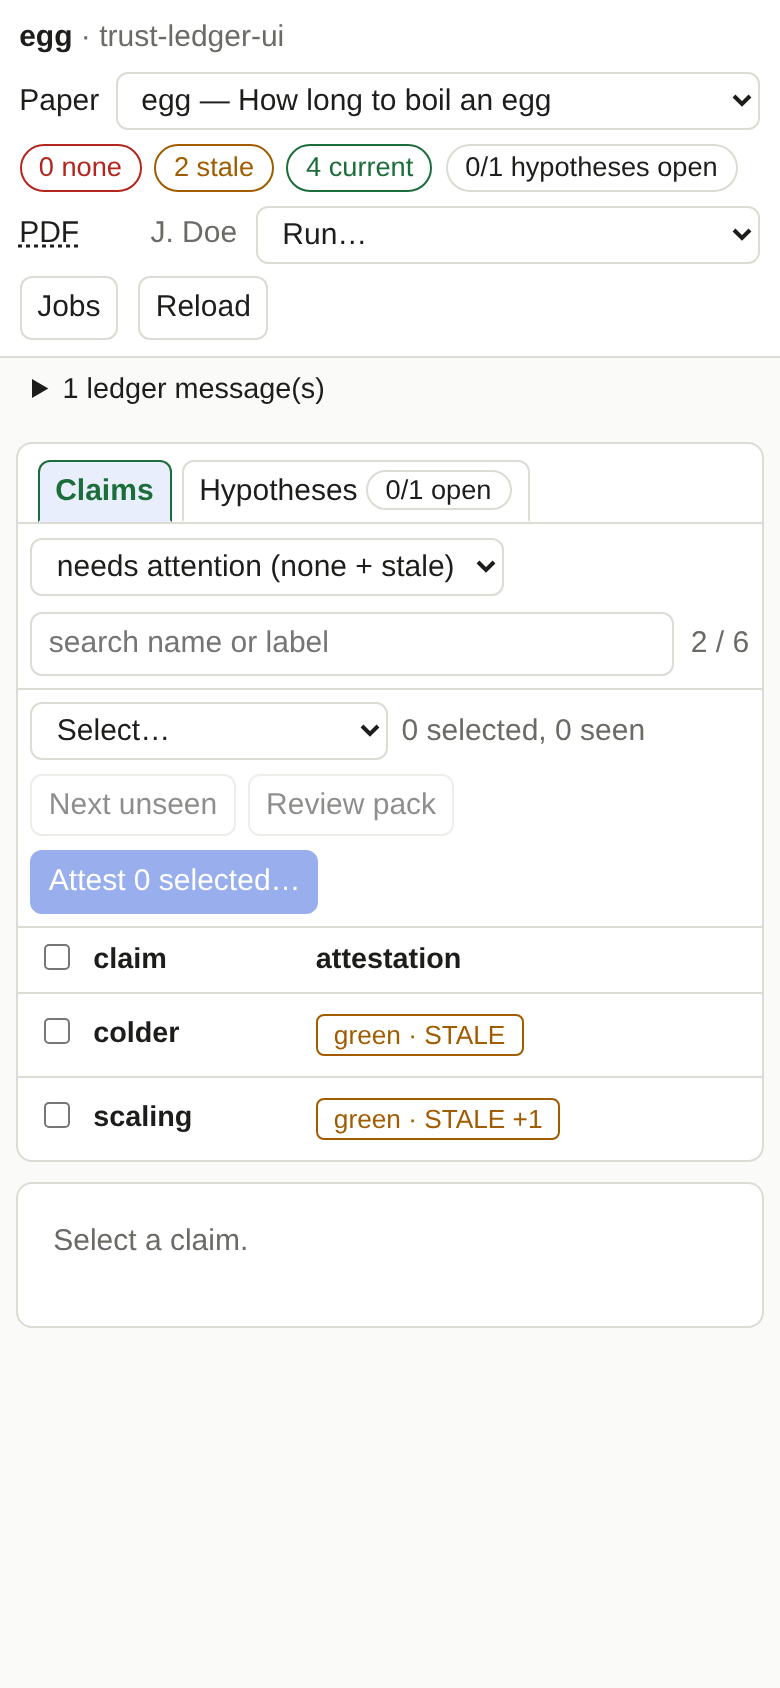
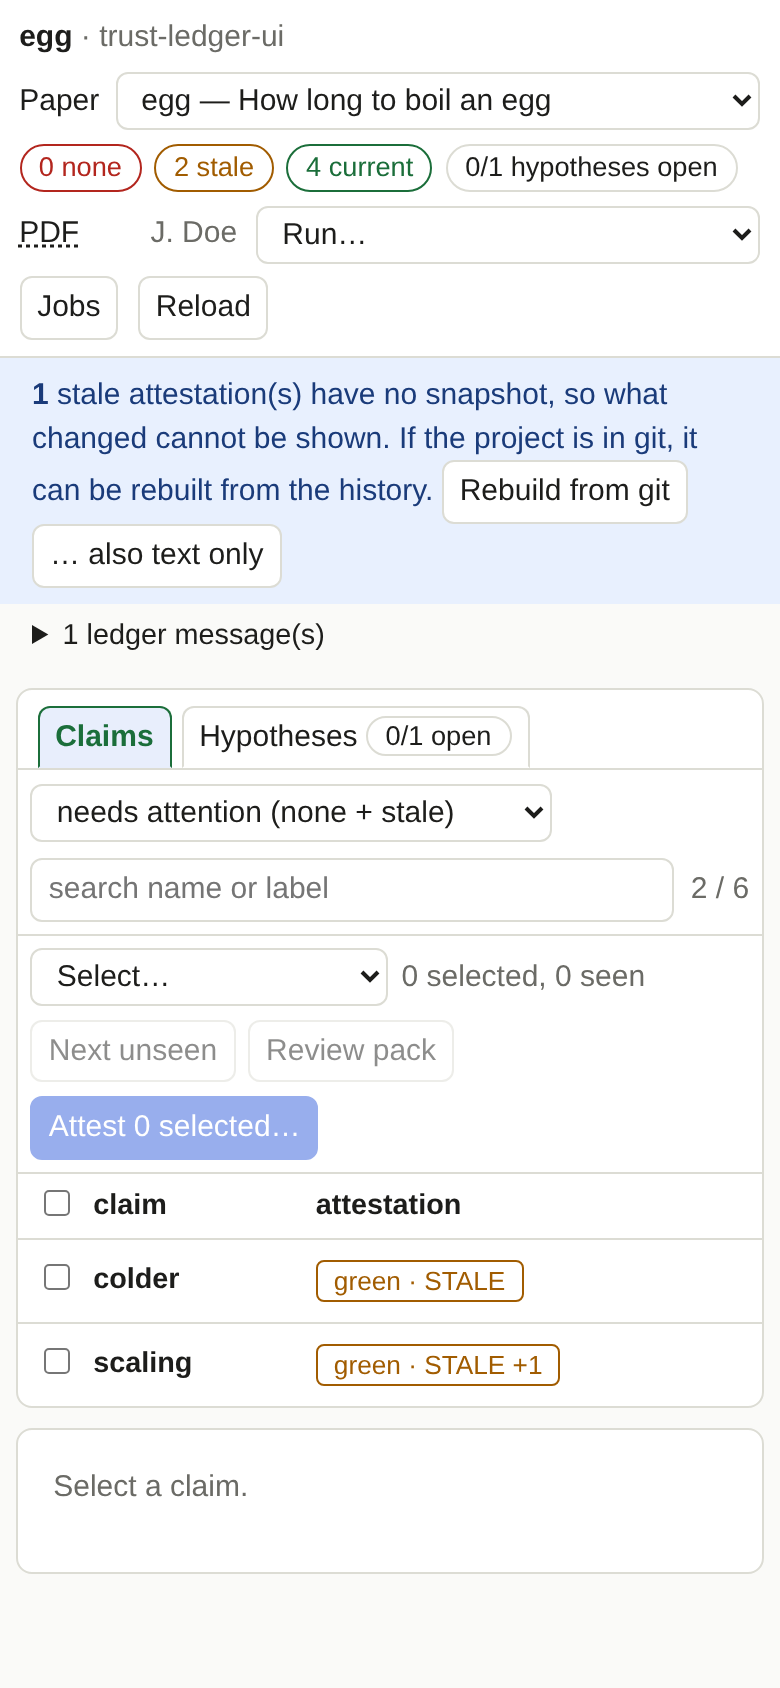
Screenshots regenerated; manual names the assessment column
shots.js had the same ambiguous .banner.info selector as the e2e test (now .nosnap).

diff --git a/tools/shots.js b/tools/shots.js
@@ -18,8 +18,8 @@ const shot = async (page, name, target, clip) => {
 
   // 01: the first look; attestations from before snapshots existed are offered a snapshot
   await shot(page, '01-overview', null, { x: 0, y: 0, width: 1360, height: 520 });
-  await page.click('.banner.info button');
-  await page.waitForSelector('.banner.info', { state: 'hidden', timeout: 30000 });
+  await page.click('.banner.info.nosnap button');
+  await page.waitForSelector('.banner.info.nosnap', { state: 'hidden', timeout: 30000 });
 
   // 02: one claim in detail
   await page.selectOption('select[title=filter]', 'all');

diff --git a/docs/tour.md b/docs/tour.md
@@ -21,7 +21,9 @@ The counts:
 
 **Claim list** (left). Tabs *Claims* and *Hypotheses*. For claims: a filter (the default is *needs attention*: none plus
 stale), a search over names and labels, and columns for the attestation, the evidence class, where the statement comes from
-(`tex` or `manual`), the state of each tool (for example Lean) and the size of the register. Click a column header to sort.
+(`tex` or `manual`), the state of each tool (for example Lean), the size of the register, and the model assessment of paper against formal
+statement (`consistent`, `partial`, …, with *outdated* or *unbound* added when it does not judge the present state; an aid,
+not an attestation). Click a column header to sort.
 On a narrow screen only the claim and its attestation are shown.
 
 **Detail** (right). The paper statement, the back-translation of the formal statement and the Lean statement if the project
